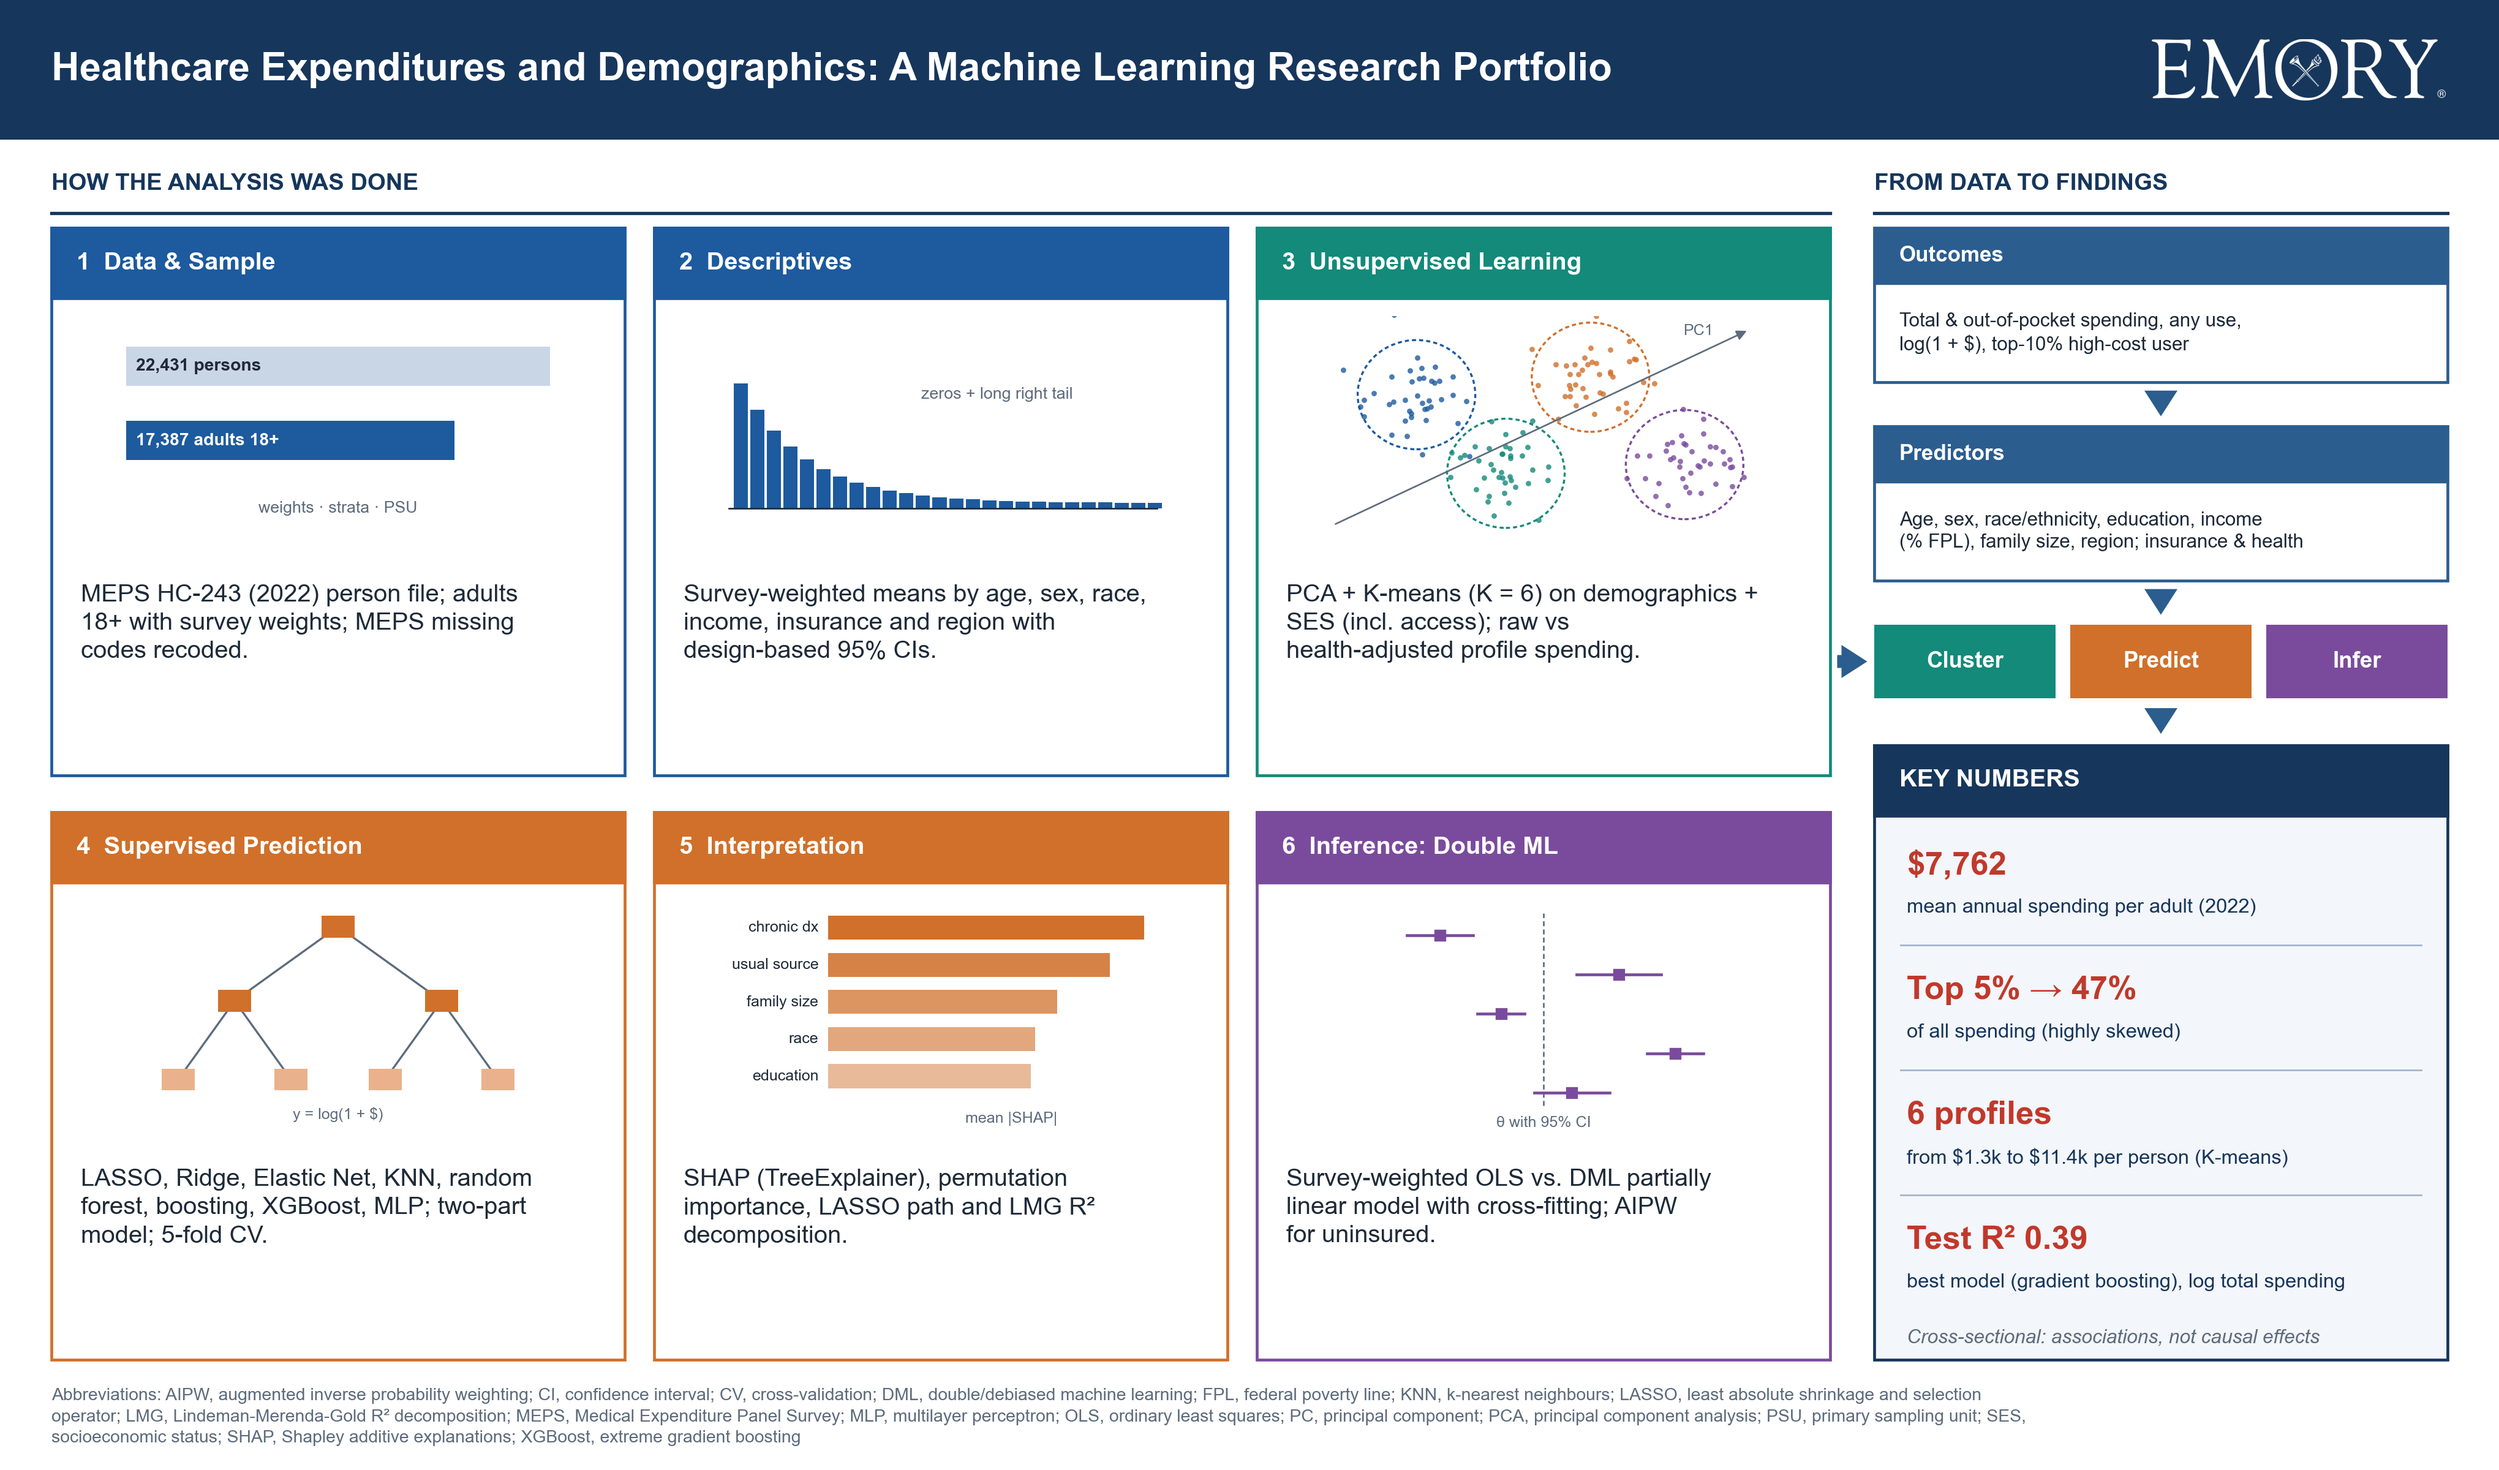
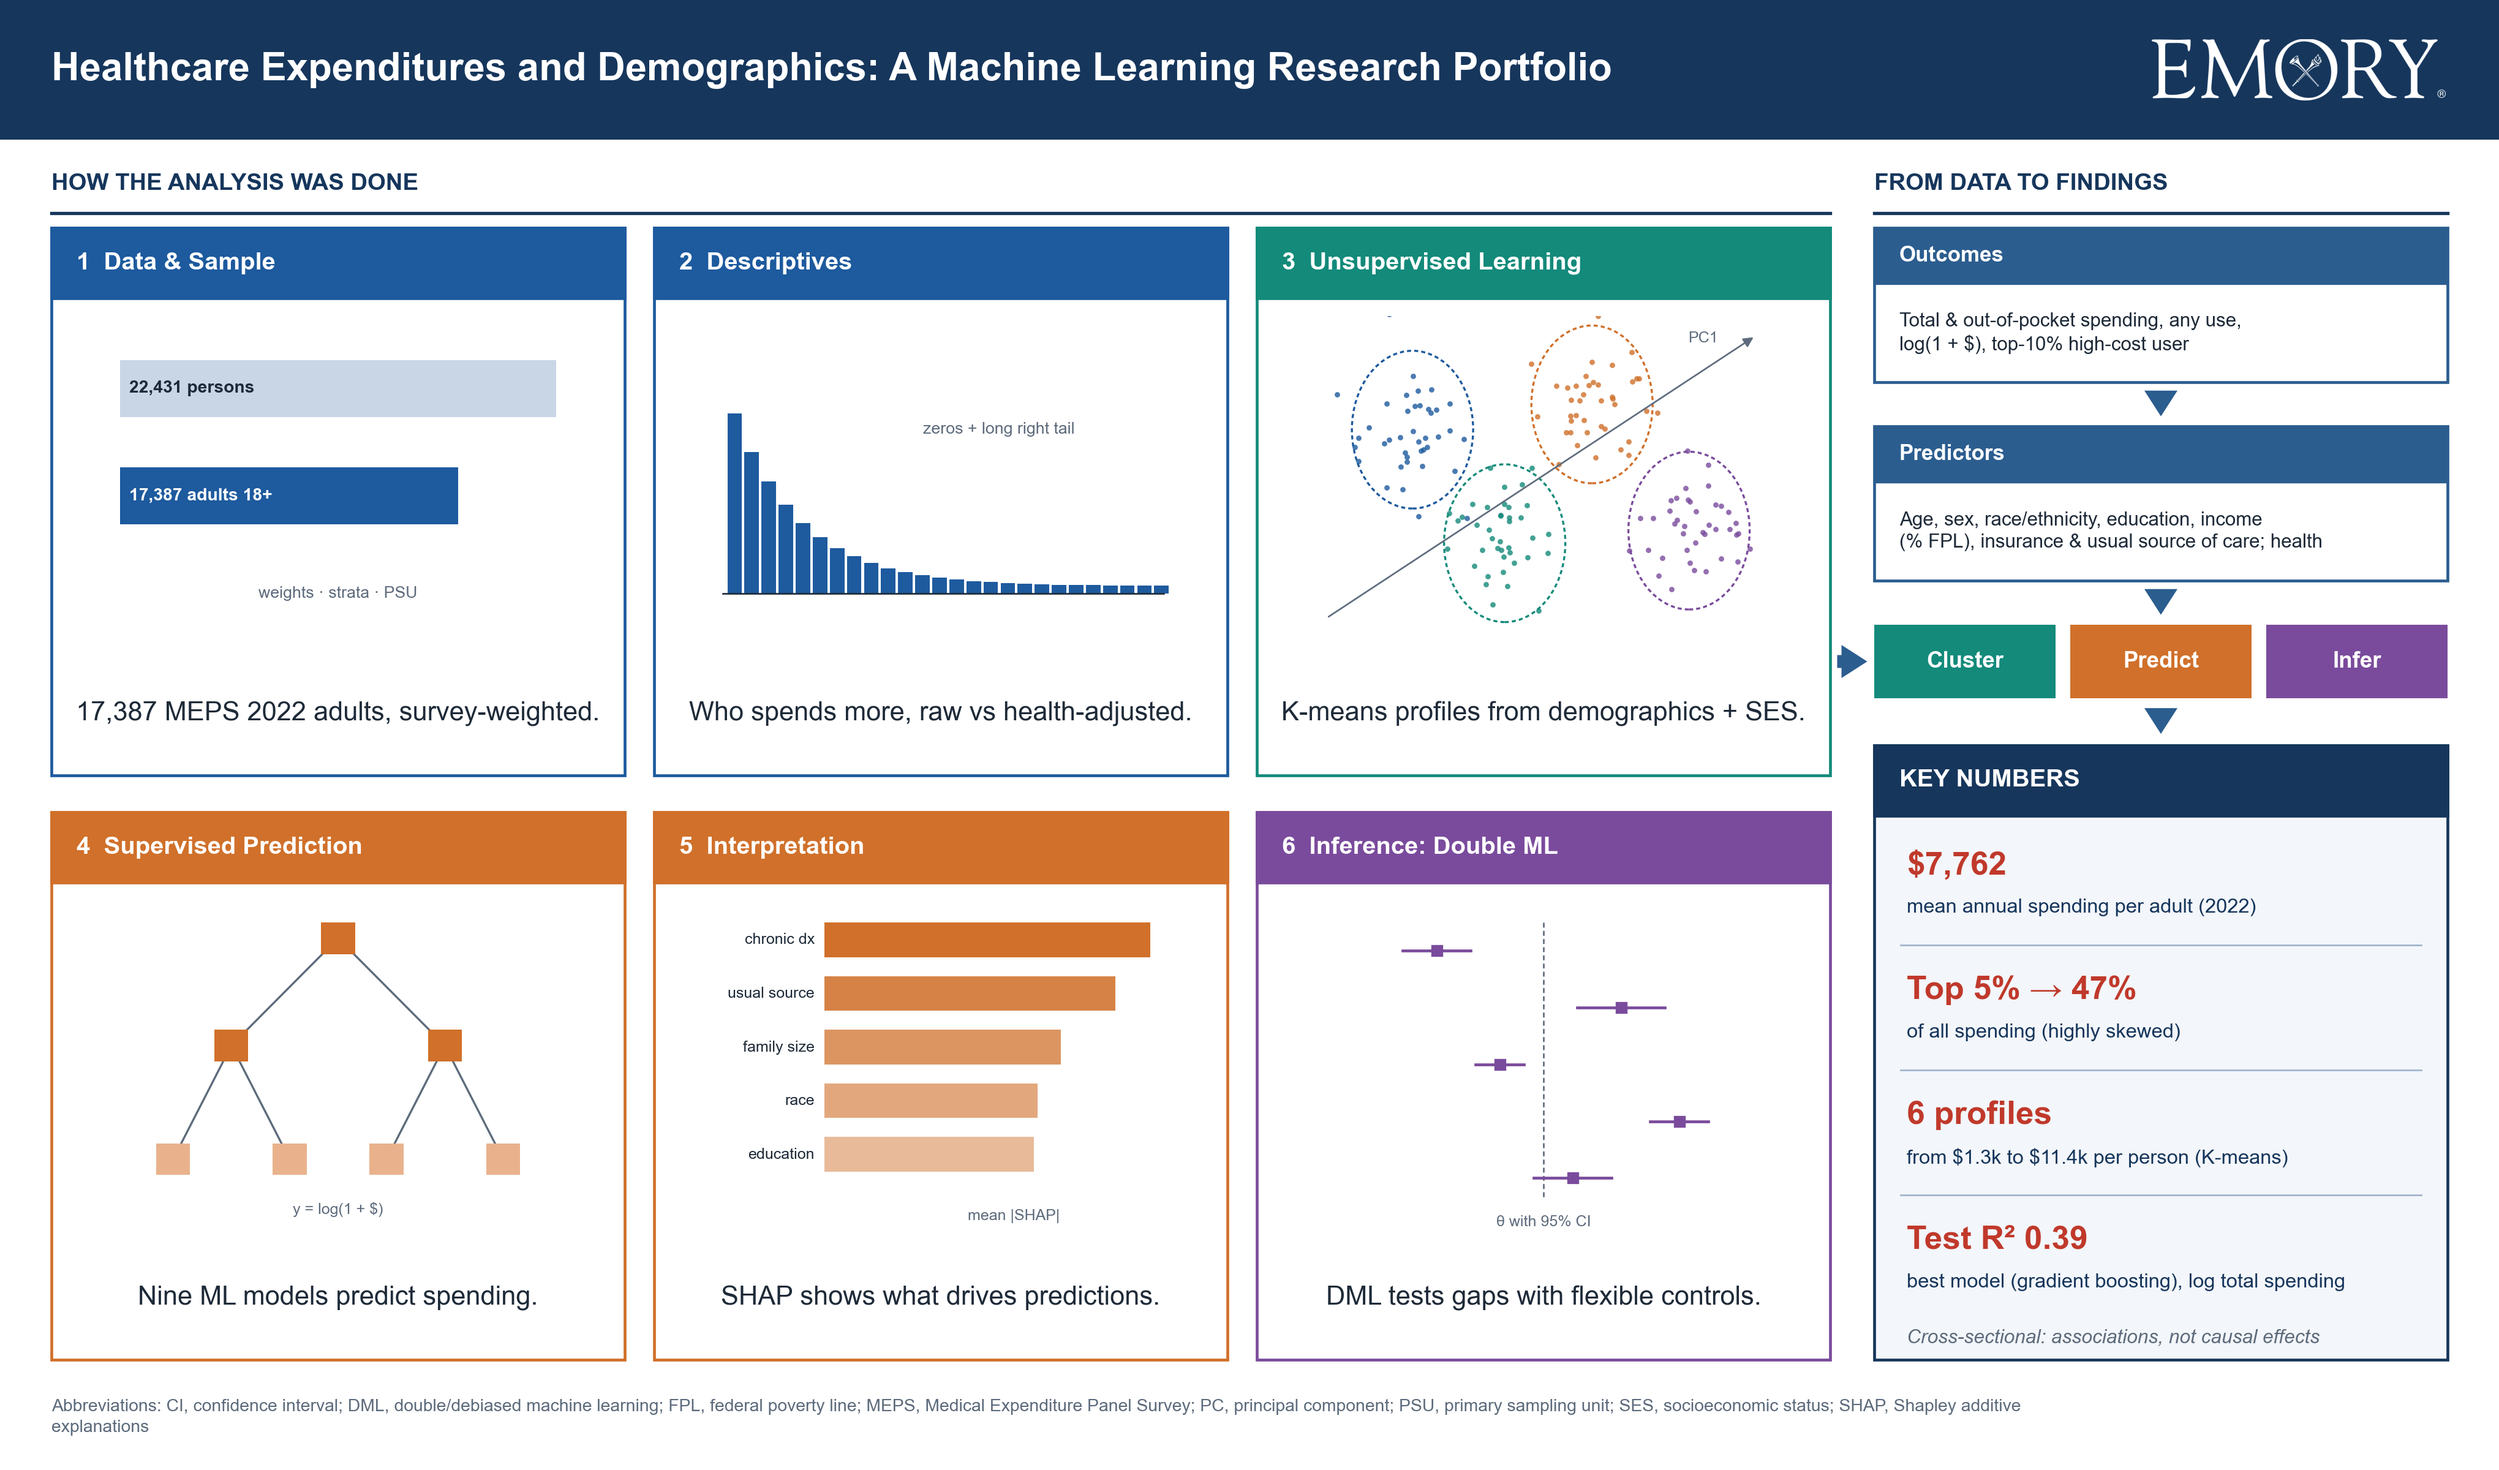
Simplify schematic: one-sentence panel captions, larger glyphs

diff --git a/code/00_schematic.py b/code/00_schematic.py
@@ -39,7 +39,7 @@ def panel(x, y, w, h, title, col=NAVY, body="white", hh=0.48, fs=12):
 def down_arrow(x, y0, y1):
     A.add_patch(FancyArrowPatch((x, y0), (x, y1), arrowstyle="simple,head_width=0.9,head_length=0.7,tail_width=0.35",
                                 mutation_scale=18, fc=NAVY2, ec="none", zorder=4))
-def t_(ax, x, y, s, c=INK, fs=8.5, **k): ax.text(x, y, s, fontsize=fs, color=c, ha=k.pop("ha", "center"), va=k.pop("va", "center"), zorder=8, **k)
+def t_(ax, x, y, s, c=INK, fs=10.5, **k): ax.text(x, y, s, fontsize=fs, color=c, ha=k.pop("ha", "center"), va=k.pop("va", "center"), zorder=8, **k)
 
 # ---------------- glyphs (axis 0-10 x 0-5)
 rng = np.random.default_rng(3)
@@ -74,12 +74,12 @@ def g_shap(ax, col):
     t_(ax, 6.5, 0, "mean |SHAP|", GREY, 7.5)
 
 GROUPS = [
-    ("Data & Sample", BLUE, g_data, "MEPS HC-243 (2022) person file; adults 18+ with survey weights; MEPS missing codes recoded."),
-    ("Descriptives", BLUE, g_desc, "Survey-weighted means by age, sex, race, income, insurance and region with design-based 95% CIs."),
-    ("Unsupervised Learning", TEAL, g_unsup, "PCA + K-means (K = 6) on demographics + SES (incl. access); raw vs health-adjusted profile spending."),
-    ("Supervised Prediction", ORANGE, g_sup, "LASSO, Ridge, Elastic Net, KNN, random forest, boosting, XGBoost, MLP; two-part model; 5-fold CV."),
-    ("Interpretation", ORANGE, g_shap, "SHAP (TreeExplainer), permutation importance, LASSO path and LMG R² decomposition."),
-    ("Inference: Double ML", PURPLE, g_inf, "Survey-weighted OLS vs. DML partially linear model with cross-fitting; AIPW for uninsured."),
+    ("Data & Sample", BLUE, g_data, "17,387 MEPS 2022 adults, survey-weighted."),
+    ("Descriptives", BLUE, g_desc, "Who spends more, raw vs health-adjusted."),
+    ("Unsupervised Learning", TEAL, g_unsup, "K-means profiles from demographics + SES."),
+    ("Supervised Prediction", ORANGE, g_sup, "Nine ML models predict spending."),
+    ("Interpretation", ORANGE, g_shap, "SHAP shows what drives predictions."),
+    ("Inference: Double ML", PURPLE, g_inf, "DML tests gaps with flexible controls."),
 ]
 
 # ---------------- header band
@@ -98,9 +98,9 @@ gx, gy = 0.2, 0.25; pw = (LX1 - LX0 - 2 * gx) / 3; ph = (TOP - BOT - gy) / 2
 for i, (name, col, draw, txt) in enumerate(GROUPS):
     r, c = divmod(i, 3); x = LX0 + c * (pw + gx); y = TOP - (r + 1) * ph - r * gy
     panel(x, y, pw, ph, f"{i + 1}  {name}", col)
-    dax = fig.add_axes([(x + 0.35) / W, (y + 1.55) / H, (pw - 0.7) / W, (ph - 2.15) / H]); dax.set_xlim(0, 10); dax.set_ylim(-0.3, 5)
+    dax = fig.add_axes([(x + 0.3) / W, (y + 0.85) / H, (pw - 0.6) / W, (ph - 1.45) / H]); dax.set_xlim(0, 10); dax.set_ylim(-0.3, 5)
     dax.axis("off"); draw(dax, col)
-    A.text(x + 0.2, y + 1.3, textwrap.fill(txt, 40, break_on_hyphens=False), fontsize=12, color=INK, va="top", linespacing=1.35)
+    A.text(x + pw / 2, y + 0.42, txt, fontsize=13, color=INK, ha="center", va="center", fontweight="medium")
 
 # ---------------- right: flow
 def box(y0, y1, title, sub, col=NAVY2):
@@ -110,7 +110,7 @@ def box(y0, y1, title, sub, col=NAVY2):
     A.text(RX + 0.17, (y0 + y1 - 0.38) / 2, sub, fontsize=9.4, color=INK, va="center", linespacing=1.3, zorder=3)
 b1 = (TOP - 1.05, TOP); box(*b1, "Outcomes", "Total & out-of-pocket spending, any use,\nlog(1 + $), top-10% high-cost user")
 down_arrow(RX + RW / 2, b1[0] - 0.04, b1[0] - 0.26)
-b2 = (b1[0] - 1.35, b1[0] - 0.3); box(*b2, "Predictors", "Age, sex, race/ethnicity, education, income\n(% FPL), family size, region; insurance & health")
+b2 = (b1[0] - 1.35, b1[0] - 0.3); box(*b2, "Predictors", "Age, sex, race/ethnicity, education, income\n(% FPL), insurance & usual source of care; health")
 down_arrow(RX + RW / 2, b2[0] - 0.04, b2[0] - 0.26)
 my1 = b2[0] - 0.3; my0 = my1 - 0.5; bw = (RW - 0.2) / 3
 for k_, (lab, col) in enumerate((("Cluster", TEAL), ("Predict", ORANGE), ("Infer", PURPLE))):
